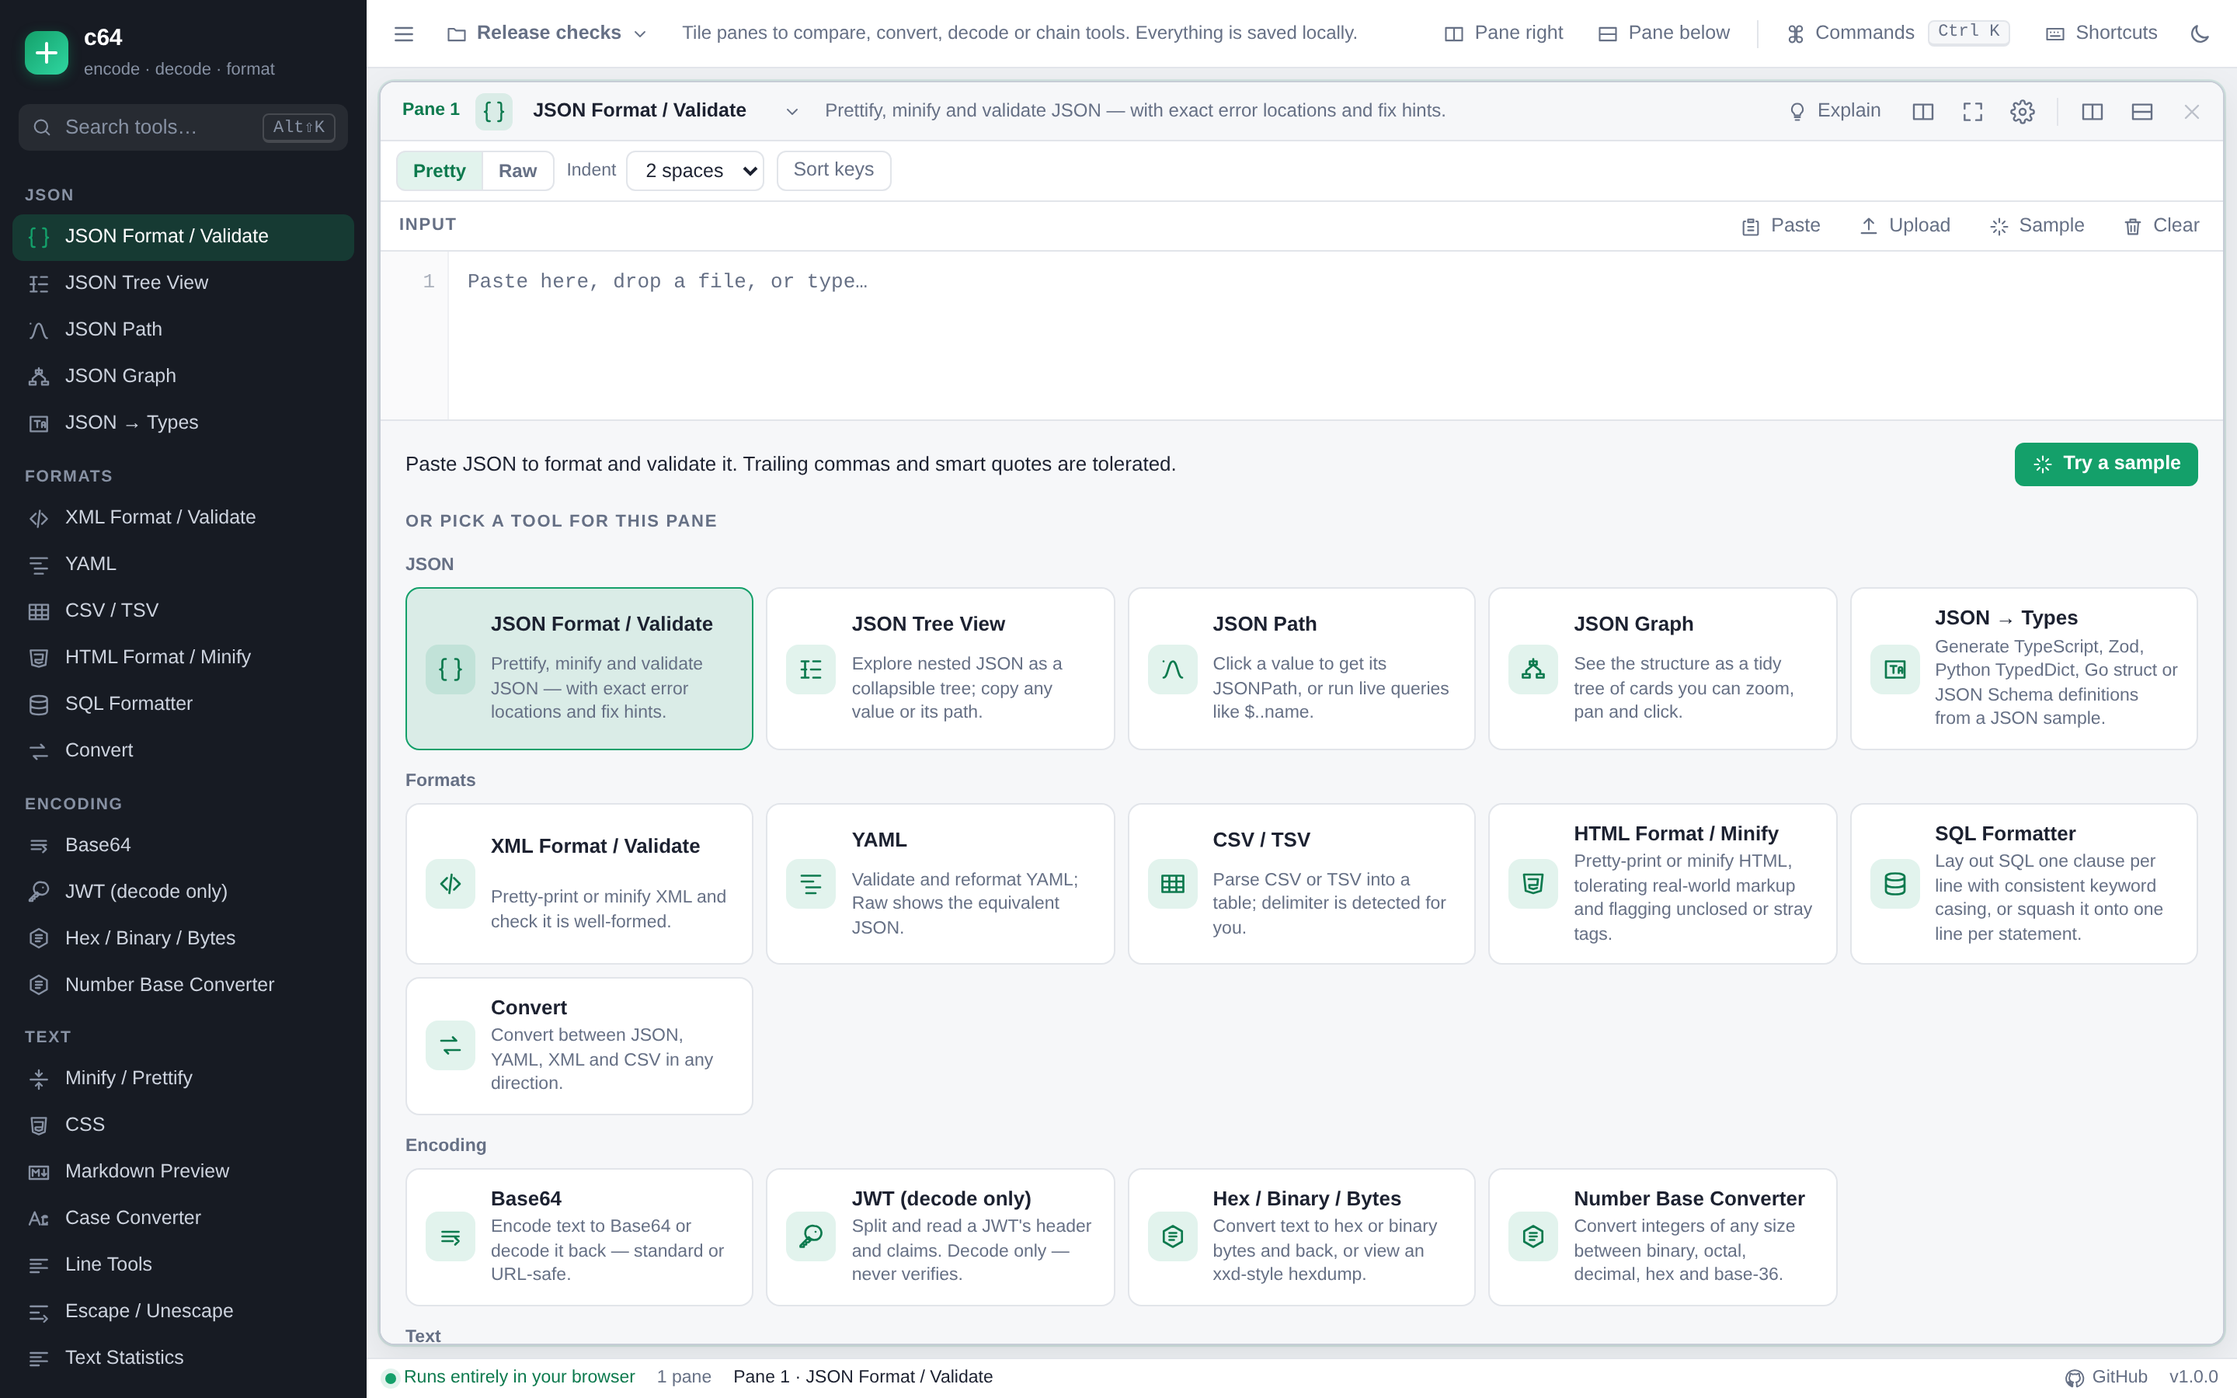
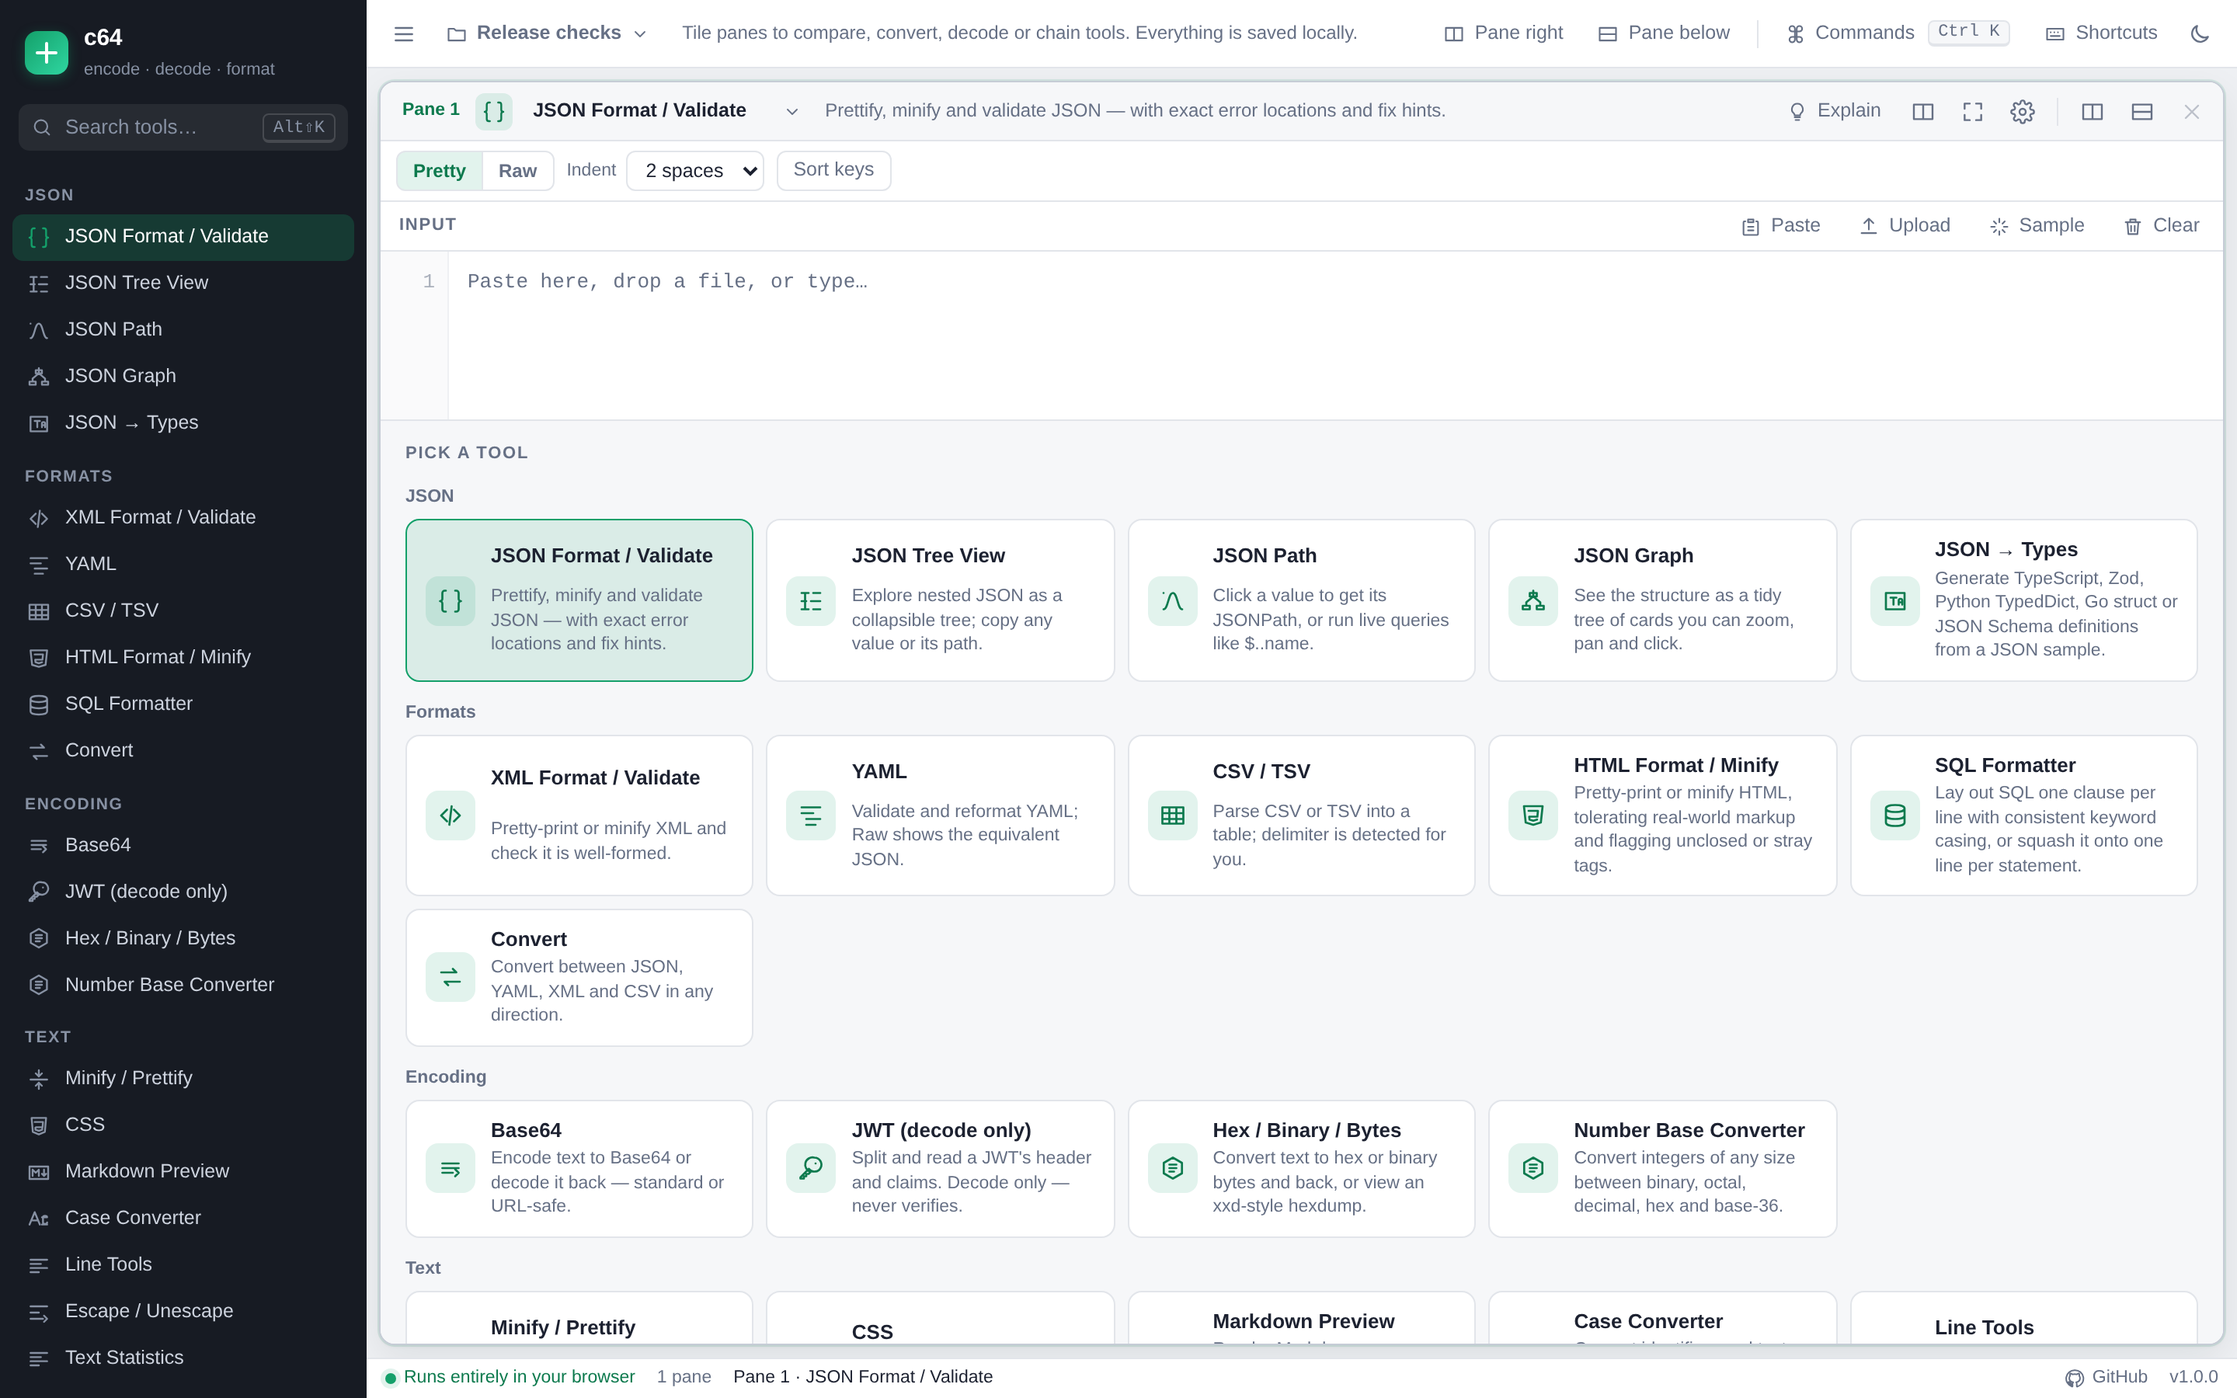
Empty pane: ask once — tool grid only while fresh, mode hint + actions after a tool is picked
- PaneState.fresh (default true; clones, pipes and legacy set-up panes false)
- Picker has two faces: .picker-fresh (Pick a tool grid + sample footer) and
  .picker-ready (emptyHint, Try a sample / Paste / Upload, drop hint)
- Sidebar pick flashes the pane title, scrolls it into view, toasts
  'Pane N → Tool' when 2+ panes; Enter in tool search clears the box
- Hide .tool-desc on cards under 700px container width
- layout tests for fresh/clone/sanitize inference; docs + changelog

diff --git a/src/pane.ts b/src/pane.ts
@@ -90,6 +90,7 @@ export class PaneView {
   private readonly statusEl: HTMLElement;
   private readonly notesEl: HTMLElement;
   private readonly picker: HTMLElement;
+  private readonly fileInput: HTMLInputElement;
   private readonly inputWrap: HTMLElement;
   private readonly outputWrap: HTMLElement;
   private readonly body: HTMLElement;
@@ -205,6 +206,7 @@ export class PaneView {
       if (f) void this.loadFile(f);
       fileInput.value = '';
     });
+    this.fileInput = fileInput;
     this.inputMeta = h('span.panel-meta');
     this.linkChip = h('button.chip.link-chip', { type: 'button', hidden: true, title: 'Input is piped from another pane — click to unlink' });
     this.linkChip.addEventListener('click', () => board.link(node.id, null));
@@ -337,7 +339,16 @@ export class PaneView {
     this.textarea.placeholder = src ? 'Waiting for output from the linked pane…' : 'Paste here, drop a file, or type…';
     if (src) {
       this.linkChip.replaceChildren(icon('pipe', 12), h('span', {}, `from ${this.board.titleOf(src)}`), icon('close', 11));
+      this.markUsed();
     }
+  }
+
+  /** The pane has been deliberately set up (tool, input or pipe) — no more tool grid. */
+  private markUsed(): void {
+    if (this.node.state.fresh === false) return;
+    this.node.state.fresh = false;
+    this.updateEmptyState();
+    this.board.changed();
   }
 
   destroy(): void {
@@ -350,6 +361,7 @@ export class PaneView {
 
   setMode(id: string): void {
     this.node.state.mode = id;
+    this.node.state.fresh = false;
     this.modeSelect.value = id;
     this.renderControls();
     this.updateEmptyState();
@@ -358,6 +370,7 @@ export class PaneView {
   }
 
   setInput(text: string): void {
+    this.markUsed();
     if (this.textarea.value === text) return;
     this.textarea.value = text;
     this.onInput();
@@ -505,6 +518,7 @@ export class PaneView {
 
   private onInput(): void {
     this.node.state.input = this.textarea.value;
+    if (this.node.state.input !== '') this.node.state.fresh = false;
     this.updateEmptyState();
     this.updateInputMeta();
     this.renderGutter();
@@ -697,16 +711,28 @@ export class PaneView {
 
   private updateEmptyState(): void {
     const empty = this.node.state.input === '';
+    const fresh = this.node.state.fresh !== false;
     this.body.classList.toggle('is-empty', empty);
     this.picker.hidden = !empty;
+    const freshEl = this.picker.querySelector<HTMLElement>('.picker-fresh');
+    const readyEl = this.picker.querySelector<HTMLElement>('.picker-ready');
+    if (freshEl) freshEl.hidden = !fresh;
+    if (readyEl) readyEl.hidden = fresh;
     const hint = this.picker.querySelector<HTMLElement>('.picker-hint');
     if (hint) hint.textContent = this.mode.emptyHint;
+    const sampleLabel = this.picker.querySelector<HTMLElement>('.picker-sample-label');
+    if (sampleLabel) sampleLabel.textContent = `Not sure? Try a ${this.mode.label} sample`;
     for (const card of this.picker.querySelectorAll<HTMLElement>('.tool-card')) {
       card.classList.toggle('is-current', card.dataset['mode'] === this.node.state.mode);
     }
   }
 
-  /** The "what do you want to do?" grid shown while the pane is empty. */
+  /**
+   * Empty-state under the editor. Two faces, one at a time:
+   *   .picker-fresh — the tool grid, for a pane nobody has set up yet;
+   *   .picker-ready — the mode's hint + Sample / Paste / Upload, once a tool
+   *                   was chosen (so the user is not asked "which tool?" twice).
+   */
   private buildPicker(): HTMLElement {
     const grid = h('div.tool-grid');
     for (const cat of CATEGORIES) {
@@ -725,10 +751,23 @@ export class PaneView {
       section.append(cards);
       grid.append(section);
     }
+    const gridSample = h('button.btn.small.picker-sample-label', { type: 'button' });
+    gridSample.addEventListener('click', () => this.insertSample());
+    const fresh = h('div.picker-fresh', {}, h('p.picker-lead', {}, 'Pick a tool'), grid, h('p.picker-foot.muted', {}, gridSample));
+
     const sampleBtn = h('button.btn.primary', { type: 'button' }, icon('sparkle', 14), h('span', {}, 'Try a sample'));
     sampleBtn.addEventListener('click', () => this.insertSample());
-    const hintRow = h('div.picker-top', {}, h('p.picker-hint'), sampleBtn);
-    return h('div.picker', { hidden: true }, hintRow, h('p.picker-lead', {}, 'Or pick a tool for this pane'), grid);
+    const pasteBtn = h('button.btn.small', { type: 'button', title: 'Paste from clipboard' }, icon('paste', 13), h('span', {}, 'Paste'));
+    pasteBtn.addEventListener('click', () => void this.pasteFromClipboard());
+    const uploadBtn = h('button.btn.small', { type: 'button', title: 'Open a local file — it never leaves your browser' }, icon('upload', 13), h('span', {}, 'Upload'));
+    uploadBtn.addEventListener('click', () => this.fileInput.click());
+    const ready = h(
+      'div.picker-ready',
+      { hidden: true },
+      h('p.picker-hint'),
+      h('div.picker-actions', {}, sampleBtn, pasteBtn, uploadBtn, h('span.muted', {}, 'or drop a file here')),
+    );
+    return h('div.picker', { hidden: true }, fresh, ready);
   }
 
   private renderResult(r: ModeResult): void {

diff --git a/src/layout.ts b/src/layout.ts
@@ -35,6 +35,12 @@ export interface PaneState {
   sourceId?: string;
   /** Soft-wrap long lines in the editor and text output. */
   wrap?: boolean;
+  /**
+   * True until the user has chosen a tool, typed/pasted/loaded input, or
+   * linked a pipe. A fresh empty pane shows the tool grid; a non-fresh empty
+   * pane shows the mode's hint with Sample / Paste / Upload actions.
+   */
+  fresh?: boolean;
 }
 
 export interface PaneNode {
@@ -64,7 +70,7 @@ export function newId(prefix: string): string {
 }
 
 export function defaultPaneState(overrides: Partial<PaneState> = {}): PaneState {
-  return { mode: 'json', input: '', seam: 0.5, pretty: true, layout: 'stacked', options: {}, ...overrides };
+  return { mode: 'json', input: '', seam: 0.5, pretty: true, layout: 'stacked', options: {}, fresh: true, ...overrides };
 }
 
 export function createPane(state: Partial<PaneState> = {}): PaneNode {
@@ -104,7 +110,7 @@ export function paneCount(root: LayoutNode): number {
 
 /** Deep copy of a subtree (states included) with fresh ids — for duplicating. */
 export function clonePane(node: PaneNode): PaneNode {
-  return createPane({ ...node.state, options: { ...node.state.options } });
+  return createPane({ ...node.state, options: { ...node.state.options }, fresh: false });
 }
 
 /* ------------------------------------------------------------ mutations */
@@ -226,12 +232,14 @@ export function sanitize(node: unknown): LayoutNode | null {
   if (n.type === 'pane') {
     if (typeof n.id !== 'string') return null;
     const s: Partial<PaneState> = n.state ?? {};
+    const mode = typeof s.mode === 'string' ? s.mode : 'json';
+    const input = typeof s.input === 'string' ? s.input : '';
     return {
       type: 'pane',
       id: n.id,
       state: defaultPaneState({
-        mode: typeof s.mode === 'string' ? s.mode : 'json',
-        input: typeof s.input === 'string' ? s.input : '',
+        mode,
+        input,
         seam: clamp01(typeof s.seam === 'number' ? s.seam : 0.5),
         pretty: s.pretty !== false,
         layout: s.layout === 'side' ? 'side' : 'stacked',
@@ -239,6 +247,8 @@ export function sanitize(node: unknown): LayoutNode | null {
         ...(typeof s.title === 'string' && s.title.trim() ? { title: s.title.slice(0, 80) } : {}),
         ...(typeof s.sourceId === 'string' ? { sourceId: s.sourceId } : {}),
         ...(s.wrap === true ? { wrap: true } : {}),
+        // Legacy records (no `fresh`) are fresh only if never touched at all.
+        fresh: typeof s.fresh === 'boolean' ? s.fresh : input === '' && mode === 'json',
       }),
     };
   }

diff --git a/public/styles.css b/public/styles.css
@@ -264,7 +264,7 @@ body.dragging-col, body.dragging-col * { cursor: row-resize !important; }
 }
 .pane-title > .btn, .pane-title > .divider { flex: none; }
 /* Narrow panes shed the least important chrome first (container queries). */
-@container (max-width: 700px) { .pane .mode-desc { display: none; } }
+@container (max-width: 700px) { .pane .mode-desc { display: none; } .pane .tool-desc { display: none; } }
 @container (max-width: 560px) { .pane-title .btn.tb span { display: none; } .pane-title .btn.tb { padding: 0 6px; } .panel-head .btn.tb span { display: none; } }
 @container (max-width: 460px) { .pane-title .btn.icon:not(.close):not(.zoom-btn):not(.more-btn) { display: none; } .pane-title .divider { display: none; } .pane-name { max-width: 90px; } .mode-select { max-width: 150px; } }
 @container (max-width: 360px) { .pane-title .zoom-btn { display: none; } }
@@ -340,6 +340,7 @@ body.dragging-col, body.dragging-col * { cursor: row-resize !important; }
 .editor:read-only { color: var(--text-muted); }
 @keyframes flash { from { box-shadow: inset 0 0 0 2px var(--accent); } to { box-shadow: none; } }
 .pane-input.flash { animation: flash 700ms ease-out; }
+.pane-title.flash { animation: flash 600ms ease-out; }
 
 .output {
   flex: 1; min-height: 0; margin: 0; padding: 10px 12px; overflow: auto;
@@ -377,9 +378,12 @@ body.dragging-col, body.dragging-col * { cursor: row-resize !important; }
 
 .picker { flex: 1; min-height: 0; overflow: auto; padding: 14px 16px 18px; border-top: 1px solid var(--border); background: var(--surface-2); }
 .picker[hidden] { display: none; }
-.picker-top { display: flex; align-items: center; gap: 12px; flex-wrap: wrap; }
-.picker-hint { margin: 0; flex: 1; min-width: 200px; color: var(--text); font-size: 13px; }
-.picker-lead { margin: 16px 0 8px; color: var(--text-muted); font-size: 11px; font-weight: 700; letter-spacing: 0.08em; text-transform: uppercase; }
+.picker-fresh[hidden], .picker-ready[hidden] { display: none; }
+.picker-hint { margin: 0 0 10px; color: var(--text); font-size: 13px; }
+.picker-actions { display: flex; align-items: center; gap: 8px; flex-wrap: wrap; }
+.picker-actions .muted { font-size: 12px; }
+.picker-lead { margin: 0 0 8px; color: var(--text-muted); font-size: 11px; font-weight: 700; letter-spacing: 0.08em; text-transform: uppercase; }
+.picker-foot { margin: 16px 0 0; font-size: 12px; }
 .tool-section h4 { margin: 12px 0 6px; font-size: 11.5px; color: var(--text-muted); font-weight: 600; }
 .tool-cards { display: grid; grid-template-columns: repeat(auto-fill, minmax(196px, 1fr)); gap: 8px; }
 .tool-card {

diff --git a/tests/layout.test.ts b/tests/layout.test.ts
@@ -9,6 +9,8 @@ import {
   allPanes,
   paneCount,
   findParent,
+  clonePane,
+  defaultPaneState,
   MIN_FRACTION,
   type LayoutNode,
   type SplitNode,
@@ -149,6 +151,28 @@ test('sanitize repairs bad sizes and drops garbage, returns null for junk', () =
   // single surviving child collapses to that child
   const lone = sanitize({ type: 'split', id: 's', dir: 'col', children: [{ type: 'pane', id: 'p' }] });
   assert.equal(lone?.type, 'pane');
+});
+
+test('fresh: new panes are fresh, clones are not', () => {
+  assert.equal(defaultPaneState().fresh, true);
+  assert.equal(createPane({ mode: 'jwt' }).state.fresh, true);
+  assert.equal(defaultPaneState({ fresh: false }).fresh, false);
+  const a = createPane({ input: 'x' });
+  assert.equal(clonePane(a).state.fresh, false);
+  a.state.fresh = true;
+  assert.equal(clonePane(a).state.fresh, false);
+});
+
+test('sanitize keeps fresh and infers it for legacy records', () => {
+  const p = (state: Record<string, unknown>) => (sanitize({ type: 'pane', id: 'p', state }) as { state: { fresh?: boolean } }).state.fresh;
+  assert.equal(p({ fresh: true, input: 'x' }), true);
+  assert.equal(p({ fresh: false, input: '' }), false);
+  assert.equal(p({ fresh: 'yes' }), true); // non-boolean falls back to inference (empty json)
+  // legacy: untouched empty JSON pane is fresh; anything else was set up
+  assert.equal(p({ mode: 'json', input: '' }), true);
+  assert.equal(p({}), true);
+  assert.equal(p({ mode: 'jwt', input: '' }), false);
+  assert.equal(p({ mode: 'json', input: '{}' }), false);
 });
 
 test('findParent locates the immediate split', () => {

diff --git a/src/main.ts b/src/main.ts
@@ -191,6 +191,17 @@ function pickTool(id: string): void {
   pane.setMode(id);
   pane.focus();
   highlightActiveTool();
+  // Make the switch visible: flash the pane's title bar, bring it into view,
+  // and name the target pane when there is more than one to confuse.
+  const bar = pane.el.querySelector<HTMLElement>('.pane-title');
+  if (bar) {
+    bar.classList.remove('flash');
+    void bar.offsetWidth;
+    bar.classList.add('flash');
+    setTimeout(() => bar.classList.remove('flash'), 600);
+  }
+  pane.el.scrollIntoView({ block: 'nearest' });
+  if (board.panes.length >= 2) toast(`${board.titleOf(pane.node.id)} → ${pane.mode.label}`);
   if (matchMedia('(max-width: 900px)').matches) setSidebar(false);
 }
 
@@ -234,6 +245,8 @@ search.addEventListener('keydown', (e) => {
   if (e.key === 'Enter') {
     const first = nav.querySelector<HTMLButtonElement>('.nav-item:not([hidden])');
     if (first) pickTool(first.dataset['mode']!);
+    search.value = '';
+    filterTools();
   } else if (e.key === 'Escape') {
     search.value = '';
     filterTools();

diff --git a/src/board.ts b/src/board.ts
@@ -141,7 +141,7 @@ export class Board {
   addPiped(sourceId: string): void {
     const src = findPane(this.root, sourceId);
     if (!src) return;
-    const node = createPane({ mode: 'json', layout: src.state.layout, sourceId });
+    const node = createPane({ mode: 'json', layout: src.state.layout, sourceId, fresh: false });
     this.add(sourceId, 'row', node);
     const v = this.views.get(sourceId);
     if (v) this.views.get(node.id)?.setInput(v.outputText);

diff --git a/docs/architecture.md b/docs/architecture.md
@@ -37,7 +37,9 @@ docs/                    this folder
 1. The **board** is a tree of `SplitNode`s (row / column, sizes summing to 1)
    and `PaneNode`s. Every pane holds its own `PaneState`: mode id, input text,
    options, Pretty/Raw, layout, seam position, optional title, optional
-   `sourceId` (pipe) and wrap flag.
+   `sourceId` (pipe), wrap flag and a `fresh` flag (true until a tool is
+   picked, input arrives or a pipe is linked — it decides which empty state
+   the pane shows: the tool grid, or the mode's hint with Sample/Paste/Upload).
 2. Typing in a pane debounces (180 ms) then calls `runMode(modeId, input, ctx)`.
    Inputs under 150 000 characters run on the main thread; larger ones are
    posted to the Web Worker so the UI never freezes. A "working" bar appears

diff --git a/CHANGELOG.md b/CHANGELOG.md
@@ -6,6 +6,15 @@ All notable changes to c64 are recorded here. The format follows
 
 ## [Unreleased]
 
+### Changed
+- Empty panes no longer ask twice. A brand-new pane shows "Pick a tool" with
+  the tool grid (and a "Not sure? Try a … sample" button underneath); once a
+  tool is chosen — from the sidebar, the header dropdown, the palette or the
+  grid — the grid gives way to the tool's hint with Try a sample / Paste /
+  Upload. Picking a tool in the sidebar now flashes the target pane's title
+  bar, scrolls it into view and, with several panes open, names the pane it
+  changed; Enter in the sidebar search clears the box after picking.
+
 ## [1.0.0] — 2026-09-18
 
 First public release, live at <https://c64.bjk.ai>.
